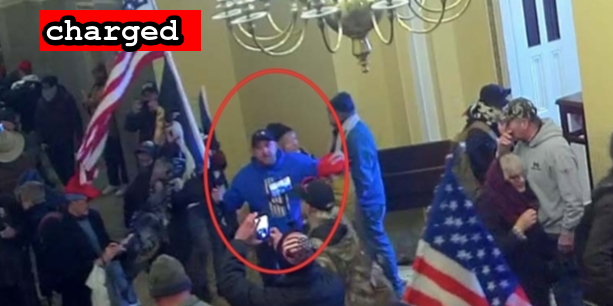
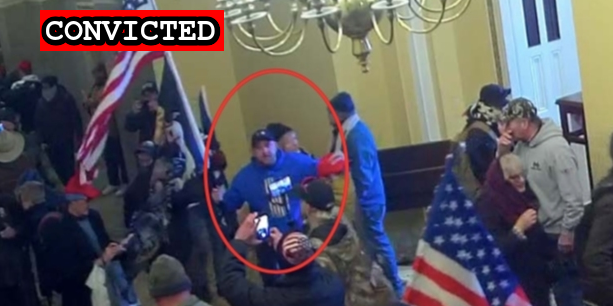
New plea

Changed region(s): [[0.062, 0.0294, 0.3719, 0.1765]]

diff --git a/commands/sheet-publish.ts b/commands/sheet-publish.ts
@@ -96,7 +96,9 @@ const publishSheet = async () => {
       Residence: suspect.residence,
       Age: suspect.age,
       "Case Number": suspect.caseNumber,
-      Hashtag: `=HYPERLINK("https://twitter.com/search?q=%23${suspect.hashtag}", "#${suspect.hashtag}")`,
+      Hashtag: suspect.hashtag
+        ? `=HYPERLINK("https://twitter.com/search?q=%23${suspect.hashtag}", "#${suspect.hashtag}")`
+        : "",
       "Sedition Track": suspectUrl,
       Charged: suspect.charged,
       Indicted: suspect.indicted,

diff --git a/docs/_suspects/dominick-madden.md b/docs/_suspects/dominick-madden.md
@@ -4,15 +4,15 @@ lastName: Madden
 hashtag: DominickMadden
 aka:
 residence: New York
-status: Charged
+status: Convicted
 date: 2021-01-22
 charged: 2021-01-22
 indicted:
-convicted:
+convicted: 2021-10-05
 sentenced:
 dismissed:
 deceased:
-plea_hearing:
+plea_hearing: 2021-10-05
 sentencing:
 age: 43
 occupation: Sanitation Worker
@@ -34,6 +34,10 @@ published: true
 caseNumber:
 videos:
 charges:
+- code: 18 USC § 5104(e)(2)(G)
+  title: Parading, demonstrating or picketing in a Capitol building
+  url: https://www.law.cornell.edu/uscode/text/40/5104
+  felony: false
 sentence:
 ---
 - [News Report](https://brooklyneagle.com/articles/2021/01/22/brooklyn-sanitation-worker-arrested-after-feds-idd-him-as-part-of-capitol-mob/)
